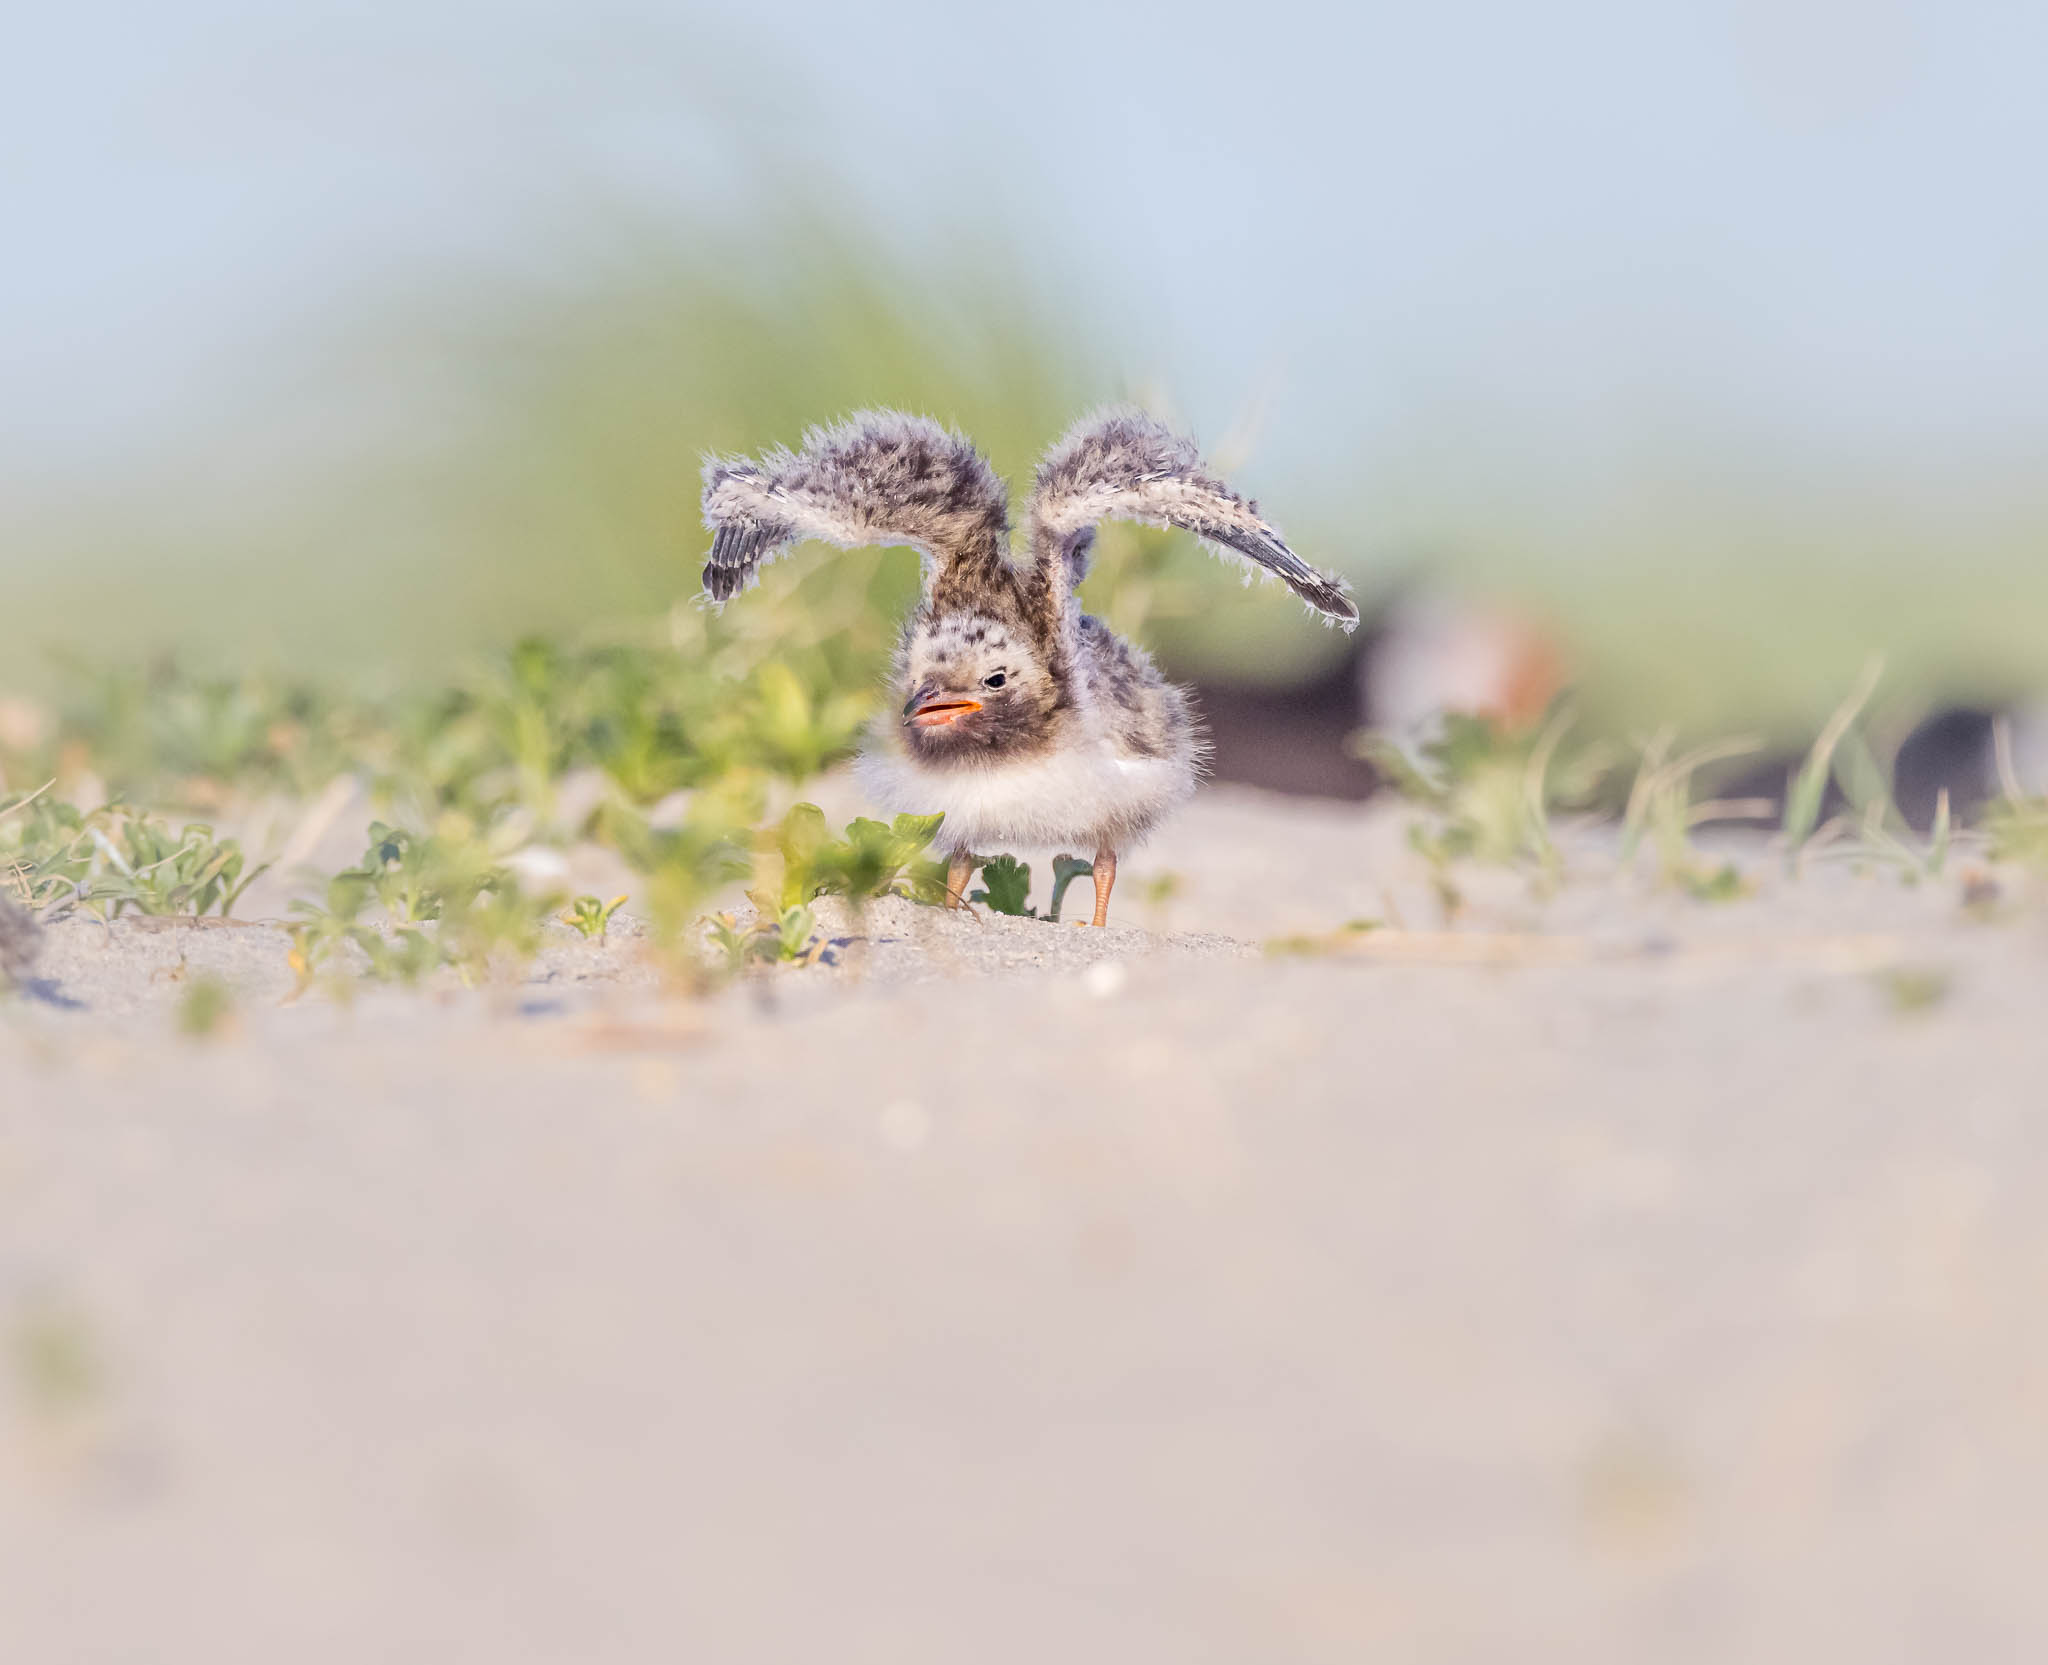
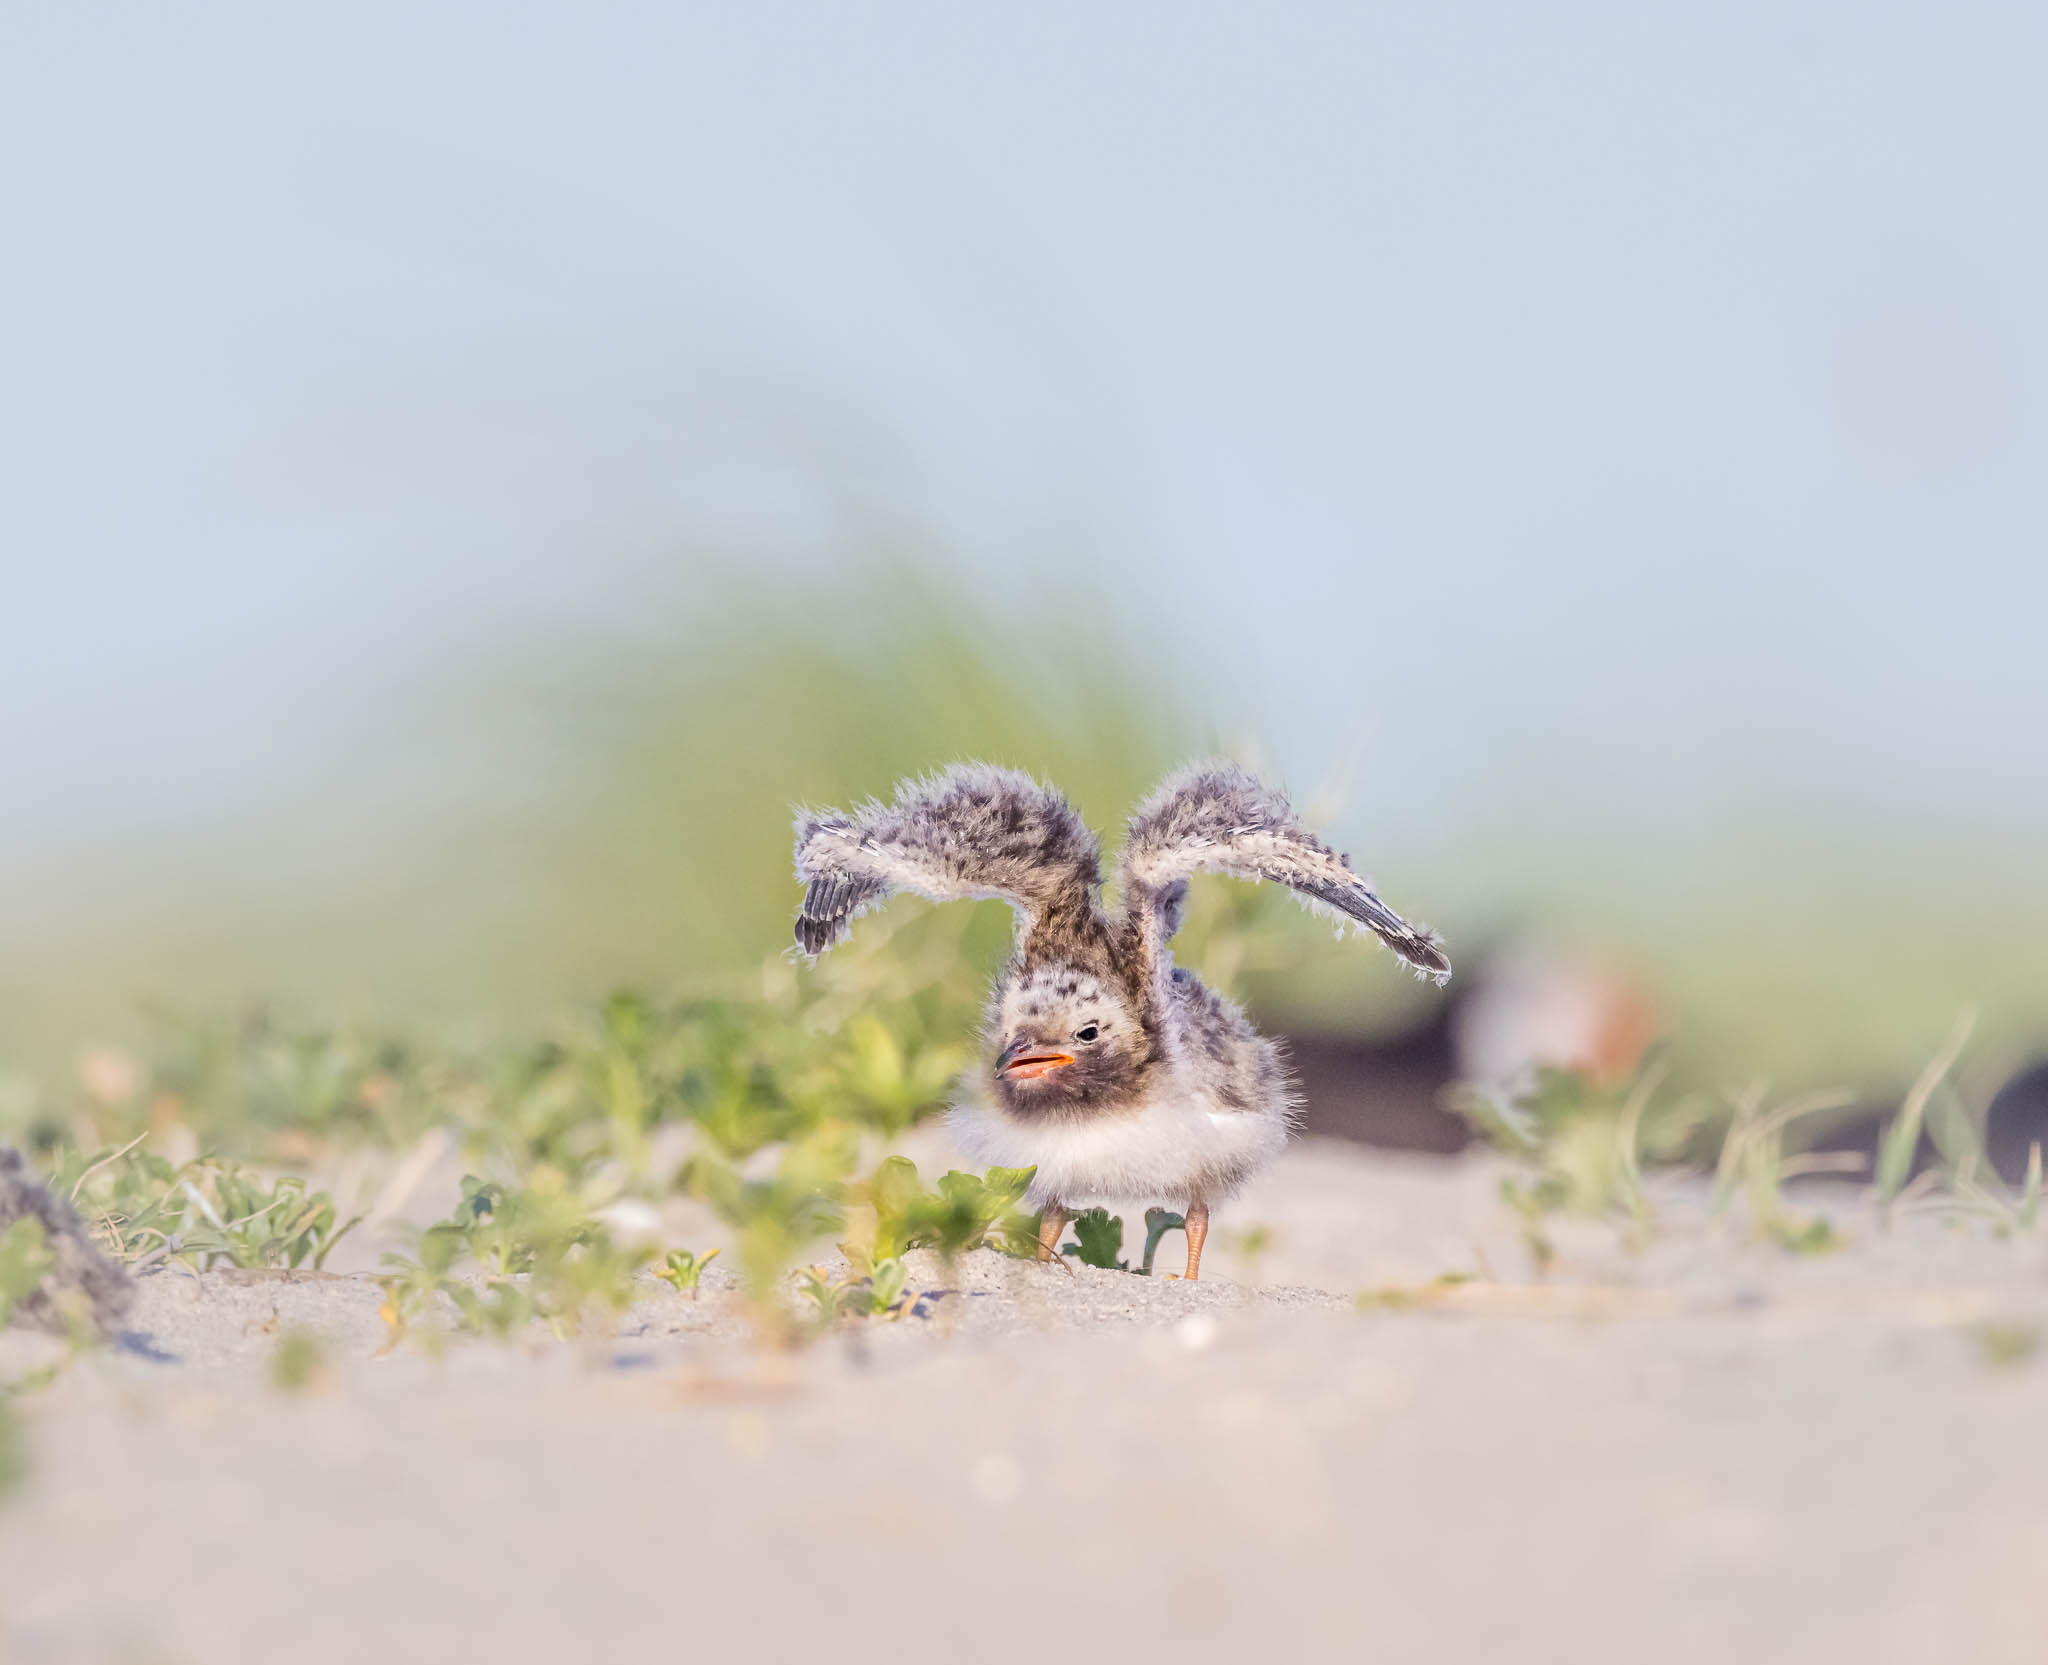
Add hover effects and update Common Tern image on Kids Korner page
Added hover overlays to Juvenile Bald Eagle, American Robin, Least Tern, and Common Tern images. Also replaced the Common Tern base image with updated version.

- Juvenile Bald Eagle: Wrapped image in image-hover-container and added juvenile-bald-eagle-hover.png
- American Robin: Wrapped image in image-hover-container and added american-robin-hover.png
- Least Tern: Wrapped image in image-hover-container and added least-tern-hover.png
- Common Tern: Replaced base image with updated version and added common-tern-hover.png with image-hover-container
- All overlays have smooth fade transitions and preserve lightbox functionality

diff --git a/kids-korner.html b/kids-korner.html
@@ -1671,10 +1671,15 @@
                     Snack time… on the go!
                 </div>
 
-                <img src="images/kids-korner/juvenile-bald-eagle-fast-food,-eagle-style.jpg"
-                     alt="Juvenile Bald Eagle - Fast Food, Eagle-Style"
-                     class="bird-image"
-                     onclick="openLightbox(this)">
+                <div class="image-hover-container">
+                    <img src="images/kids-korner/juvenile-bald-eagle-fast-food,-eagle-style.jpg"
+                         alt="Juvenile Bald Eagle - Fast Food, Eagle-Style"
+                         class="bird-image"
+                         onclick="openLightbox(this)">
+                    <img src="images/kids-korner/juvenile-bald-eagle-hover.png"
+                         alt="Juvenile Bald Eagle Overlay"
+                         class="image-hover-overlay">
+                </div>
 
                 <div class="image-caption">Fast Food, Eagle-Style</div>
             </div>
@@ -1710,10 +1715,15 @@
                     I think I can… I think I can!
                 </div>
 
-                <img src="images/kids-korner/common-tern-did-it-work-nope-try-again.jpg"
-                     alt="Common Tern - Did It Work? Nope, Try Again"
-                     class="bird-image"
-                     onclick="openLightbox(this)">
+                <div class="image-hover-container">
+                    <img src="images/kids-korner/common-tern-did-it-work-nope-try-again.jpg"
+                         alt="Common Tern - Did It Work? Nope, Try Again"
+                         class="bird-image"
+                         onclick="openLightbox(this)">
+                    <img src="images/kids-korner/common-tern-hover.png"
+                         alt="Common Tern Overlay"
+                         class="image-hover-overlay">
+                </div>
 
                 <div class="image-caption">Did It Work? Nope, Try Again</div>
             </div>
@@ -1749,10 +1759,15 @@
                     Wheeee! Flying is FUN!
                 </div>
 
-                <img src="images/kids-korner/least-tern-look!-i-can-fly-upside-down!.jpg"
-                     alt="Least Tern - Look! I Can Fly Upside Down!"
-                     class="bird-image"
-                     onclick="openLightbox(this)">
+                <div class="image-hover-container">
+                    <img src="images/kids-korner/least-tern-look!-i-can-fly-upside-down!.jpg"
+                         alt="Least Tern - Look! I Can Fly Upside Down!"
+                         class="bird-image"
+                         onclick="openLightbox(this)">
+                    <img src="images/kids-korner/least-tern-hover.png"
+                         alt="Least Tern Overlay"
+                         class="image-hover-overlay">
+                </div>
 
                 <div class="image-caption">Look! I Can Fly Upside Down!</div>
             </div>
@@ -1827,10 +1842,15 @@
                     I can carry it all… watch me!
                 </div>
 
-                <img src="images/kids-korner/american-robin-nest-building-mom.jpg"
-                     alt="American Robin - Nest-Building Mom"
-                     class="bird-image"
-                     onclick="openLightbox(this)">
+                <div class="image-hover-container">
+                    <img src="images/kids-korner/american-robin-nest-building-mom.jpg"
+                         alt="American Robin - Nest-Building Mom"
+                         class="bird-image"
+                         onclick="openLightbox(this)">
+                    <img src="images/kids-korner/american-robin-hover.png"
+                         alt="American Robin Overlay"
+                         class="image-hover-overlay">
+                </div>
 
                 <div class="image-caption">Nest-Building Mom</div>
             </div>
